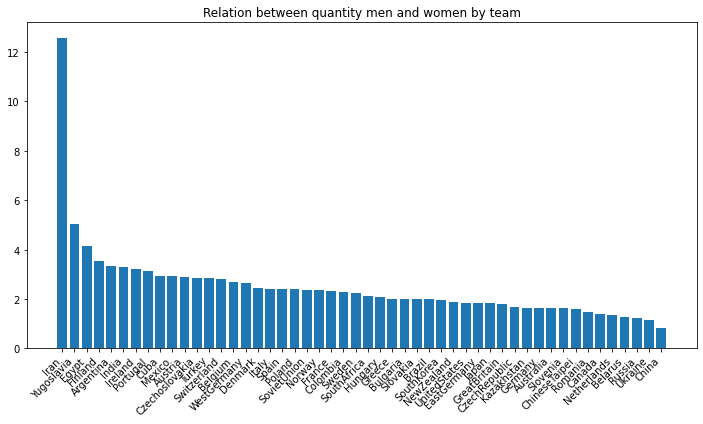
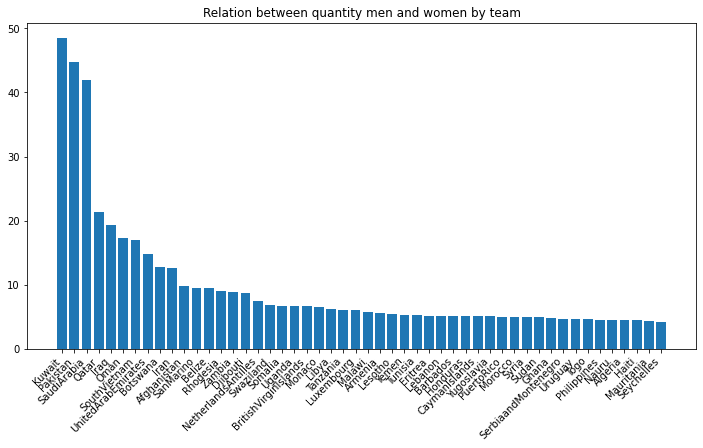
29/6/2021 v2

diff --git a/README.md b/README.md
@@ -4,6 +4,10 @@ from pandasql import sqldf
 import numpy as np
 import matplotlib.pyplot as plt
 
+```
+
+
+```python
 
 ```
 
@@ -11,28 +15,7 @@ import matplotlib.pyplot as plt
 ```python
 sql = lambda q: sqldf(q, globals())
 df = pd.read_csv("athlete_events.csv")
-df.columns
-```
 
-
-
-
-    Index(['ID', 'Name', 'Sex', 'Age', 'Height', 'Weight', 'Team', 'NOC', 'Games',
-           'Year', 'Season', 'City', 'Sport', 'Event', 'Medal'],
-          dtype='object')
-
-
-
-
-```python
-def fun(bbd):
-    qry =sql('''
-    SELECT
-    *
-    FROM  df
-    LIMIT 5
-    '''.format(df = varname(bbd)))
-    return qry
 ```
 
 
@@ -472,8 +455,7 @@ joinMF = joinMF[~joinMF['div'].isnull()]
 
 
 ```python
-joinMF50 = joinMF.head(50)
-joinMF50 = joinMF50.sort_values(by='div', ascending=False)
+joinMF50 = joinMF.sort_values(by='div', ascending=False).head(50)
 ```
 
 
@@ -494,67 +476,7 @@ plt.show()
 
 ```python
 teamByYear = pd.DataFrame(Male.groupby(['Team','Year']).count()['ID'])
-teamByYear.head()
 ```
-
-
-
-
-<div>
-<style scoped>
-    .dataframe tbody tr th:only-of-type {
-        vertical-align: middle;
-    }
-
-    .dataframe tbody tr th {
-        vertical-align: top;
-    }
-
-    .dataframe thead th {
-        text-align: right;
-    }
-</style>
-<table border="1" class="dataframe">
-  <thead>
-    <tr style="text-align: right;">
-      <th></th>
-      <th></th>
-      <th>ID</th>
-    </tr>
-    <tr>
-      <th>Team</th>
-      <th>Year</th>
-      <th></th>
-    </tr>
-  </thead>
-  <tbody>
-    <tr>
-      <th>Acipactli</th>
-      <th>1964</th>
-      <td>3</td>
-    </tr>
-    <tr>
-      <th rowspan="4" valign="top">Afghanistan</th>
-      <th>1960</th>
-      <td>16</td>
-    </tr>
-    <tr>
-      <th>1964</th>
-      <td>2</td>
-    </tr>
-    <tr>
-      <th>1968</th>
-      <td>5</td>
-    </tr>
-    <tr>
-      <th>1972</th>
-      <td>3</td>
-    </tr>
-  </tbody>
-</table>
-</div>
-
-
 
 
 ```python
@@ -649,6 +571,175 @@ barplot('Venezuela')
 
     
 ![png](output_29_0.png)
+    
+
+
+
+```python
+countries = ['Kuwait','Pakistan','SaudiArabia','Qatar','Iraq','Oman','SouthVietnam','UnitedArabEmirates']
+```
+
+
+```python
+fig, ax = plt.subplots(2,4, figsize=(15,9))
+fig.suptitle('Countries')
+for i,j in zip(countries,list(product(range(0,2,1),range(0,4,1)))):
+    country= teambycountry(i)
+    ax[j].bar(country.Year, country['Male'])
+    ax[j].bar(country.Year, country['Female'])
+    ax[j].set_title('{}'.format(i))
+   
+    
+```
+
+
+    
+![png](output_31_0.png)
+    
+
+
+
+```python
+joinMF50 = joinMF.sort_values(by='div', ascending=True).head(50)
+joinMF50.head(10)
+```
+
+
+
+
+<div>
+<style scoped>
+    .dataframe tbody tr th:only-of-type {
+        vertical-align: middle;
+    }
+
+    .dataframe tbody tr th {
+        vertical-align: top;
+    }
+
+    .dataframe thead th {
+        text-align: right;
+    }
+</style>
+<table border="1" class="dataframe">
+  <thead>
+    <tr style="text-align: right;">
+      <th></th>
+      <th>Team</th>
+      <th>Mcount</th>
+      <th>Fcount</th>
+      <th>diference</th>
+      <th>div</th>
+    </tr>
+  </thead>
+  <tbody>
+    <tr>
+      <th>276</th>
+      <td>Kosovo</td>
+      <td>3</td>
+      <td>5</td>
+      <td>-2</td>
+      <td>0.60</td>
+    </tr>
+    <tr>
+      <th>19</th>
+      <td>China</td>
+      <td>2199</td>
+      <td>2679</td>
+      <td>-480</td>
+      <td>0.82</td>
+    </tr>
+    <tr>
+      <th>203</th>
+      <td>Palau</td>
+      <td>11</td>
+      <td>13</td>
+      <td>-2</td>
+      <td>0.85</td>
+    </tr>
+    <tr>
+      <th>220</th>
+      <td>MarshallIslands</td>
+      <td>6</td>
+      <td>7</td>
+      <td>-1</td>
+      <td>0.86</td>
+    </tr>
+    <tr>
+      <th>216</th>
+      <td>CapeVerde</td>
+      <td>8</td>
+      <td>9</td>
+      <td>-1</td>
+      <td>0.89</td>
+    </tr>
+    <tr>
+      <th>109</th>
+      <td>Angola</td>
+      <td>122</td>
+      <td>123</td>
+      <td>-1</td>
+      <td>0.99</td>
+    </tr>
+    <tr>
+      <th>244</th>
+      <td>TimorLeste</td>
+      <td>3</td>
+      <td>3</td>
+      <td>0</td>
+      <td>1.00</td>
+    </tr>
+    <tr>
+      <th>435</th>
+      <td>Twinkle</td>
+      <td>1</td>
+      <td>1</td>
+      <td>0</td>
+      <td>1.00</td>
+    </tr>
+    <tr>
+      <th>198</th>
+      <td>SaintLucia</td>
+      <td>14</td>
+      <td>13</td>
+      <td>1</td>
+      <td>1.08</td>
+    </tr>
+    <tr>
+      <th>126</th>
+      <td>Vietnam</td>
+      <td>77</td>
+      <td>69</td>
+      <td>8</td>
+      <td>1.12</td>
+    </tr>
+  </tbody>
+</table>
+</div>
+
+
+
+
+```python
+countries = ['China','Palau','MarshallIslands','CapeVerde','Angola','TimorLeste','SaintLucia','Vietnam']
+```
+
+
+```python
+fig, ax = plt.subplots(2,4, figsize=(15,9))
+fig.suptitle('Countries')
+for i,j in zip(countries,list(product(range(0,2,1),range(0,4,1)))):
+    country= teambycountry(i)
+    ax[j].bar(country.Year, country['Male'], label='Male')
+    ax[j].bar(country.Year, country['Female'],label='Female ')
+    ax[j].set_title('{}'.format(i))
+    ax[j].legend()
+   
+```
+
+
+    
+![png](output_34_0.png)
     
 
 
